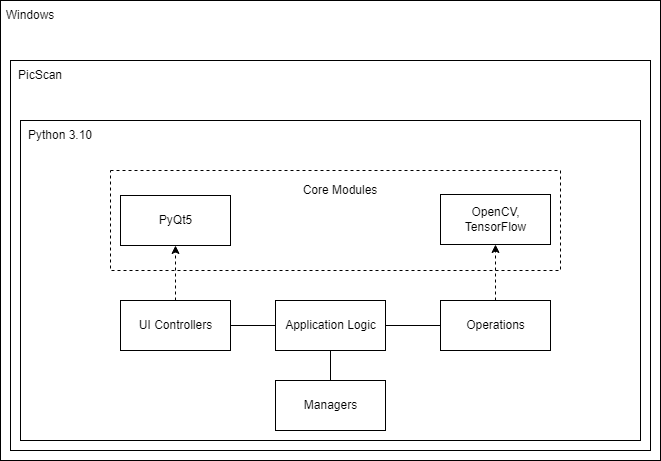
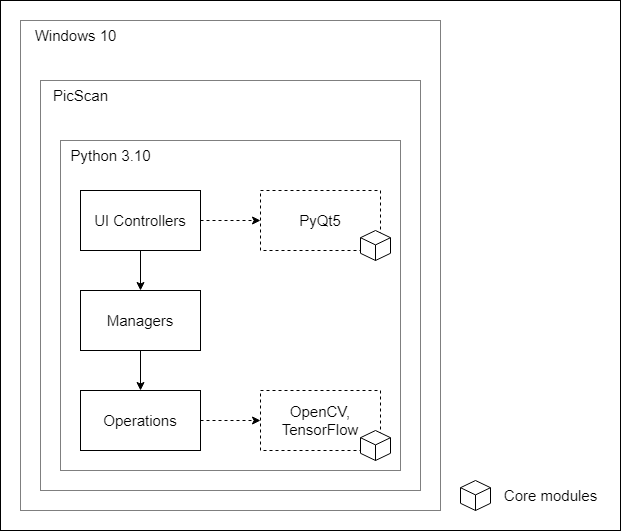
Scroll area clearing reworked, new achitecture diagram, pychaches ignored

diff --git a/src/controllers/main/mainController.py b/src/controllers/main/mainController.py
@@ -56,12 +56,17 @@ class MainUi(QMainWindow):
         self.setStyleSheet(open(ROOT_DIR + '/css/main.css').read())
 
     def _clear_scroll_area(self):
-        # TODO CHECK DELETION (QFrame content?)
-        for i in reversed(range(self.grid_layout.count())):
-            a = self.grid_layout.itemAt(i)
-            for j in reversed(range(a.layout().count())):
-                a.layout().itemAt(j).widget().setParent(None)
-            a.layout().setParent(None)
+        for i in range(self.grid_layout.count()):
+            item = self.grid_layout.itemAt(0).layout()
+            label = item.itemAt(0).widget()
+            frame = item.itemAt(1).widget()
+            vbox = frame.layout()
+            for j in range(vbox.count()):
+                vbox.itemAt(0).widget().setParent(None)
+            vbox.setParent(None)
+            frame.setParent(None)
+            label.setParent(None)
+            item.setParent(None)
 
     def switch_to_progress(self, in_auto_mode):
         Dm.save_cutouts()
@@ -73,13 +78,10 @@ class MainUi(QMainWindow):
         self._clear_scroll_area()
         self.scroll_area.verticalScrollBar().minimum()
         self.file_name_label.setText(Dm.get_file_name())
-        counter = 0
-        # TODO COLUMN_COUNT IN SETTINGS ?
         _COLUMN_COUNT = 2
-        for idx, co in enumerate(Dm.get_cutouts()):
-            layout = self._build_item(self.scroll_area, counter, idx)
-            x, y = counter % _COLUMN_COUNT, counter // _COLUMN_COUNT
-            counter += 1
+        for i in range(len(Dm.get_cutouts())):
+            layout = self._build_item(self.scroll_area, i)
+            x, y = i % _COLUMN_COUNT, i // _COLUMN_COUNT
             self.grid_layout.addLayout(layout, y, x)
         # TODO is there need for self.pixmap ?
         self.pixmap = Gra.get_qpixmap(Dm.get_canvas())
@@ -97,42 +99,41 @@ class MainUi(QMainWindow):
     def update_label(self, event=None):
         self.canvas.setPixmap(self.pixmap.scaled(self.canvas.size(), Qt.KeepAspectRatio, Qt.SmoothTransformation))
 
-    def _build_item(self, parent, idx, key):
+    def _build_item(self, parent, idx):
         h_layout = QHBoxLayout()
         frame = QFrame()
         v_layout = QVBoxLayout(frame)
         v_layout.setContentsMargins(0, 0, 0, 0)
         label = MainLabel(parent, idx)
-        rot_button = self._build_rotate_button(25, frame, idx, label)
-        edi_button = self._build_edit_button(25, frame, idx, label)
-        rem_button = self._build_remove_button(25, frame, label)
+        rot_button = self._build_rotate_button(25, label)
+        edi_button = self._build_edit_button(25, idx, label)
+        rem_button = self._build_remove_button(25, label)
         for i in [rot_button, edi_button, rem_button]:
             v_layout.addWidget(i)
         h_layout.addWidget(label, 9)
         h_layout.addWidget(frame, 1)
         return h_layout
 
-    def _build_button(self, size, parent, icon_path):
-        button = QPushButton(parent=parent)
-        # TODO parent = frame ???
+    def _build_button(self, size, icon_path):
+        button = QPushButton()
         button.setFixedSize(size, size)
         button.setIcon(self.icons[icon_path])
         icon_size = size - 5
         button.setIconSize(QSize(icon_size, icon_size))
         return button
 
-    def _build_remove_button(self, size, parent, label):
-        button = self._build_button(size, parent, "rem")
+    def _build_remove_button(self, size, label):
+        button = self._build_button(size, "rem")
         button.clicked.connect(lambda: label.toggle_cutout())
         return button
 
-    def _build_rotate_button(self, size, parent, idx, label):
-        button = self._build_button(size, parent, "rot")
+    def _build_rotate_button(self, size, label):
+        button = self._build_button(size, "rot")
         button.clicked.connect(lambda: label.rotate_cutout())
         return button
 
-    def _build_edit_button(self, size, parent, idx, label):
-        button = self._build_button(size, parent, "edit")
+    def _build_edit_button(self, size, idx, label):
+        button = self._build_button(size, "edit")
         button.clicked.connect(lambda: self._open_edit(idx, label))
         return button
 

diff --git a/src/utils/graphicUtils.py b/src/utils/graphicUtils.py
@@ -5,20 +5,6 @@ import numpy as np
 from PyQt5.QtGui import QImage, QPixmap
 import src.utils.geometricUtils as Geo
 
-
-# TODO DELETE ?
-# def resize_image_to_fit(img, shape):
-#     wc, hc = shape.width(), shape.height()
-#     wi, hi = len(img[0]), len(img)
-#     print(wi, hi)
-#     print(img.shape())
-#     if ((wc * 1.0) / hc) >= ((wi * 1.0) / hi):
-#         f = (hc * 1.0) / hi
-#     else:
-#         f = (wc * 1.0) / wi
-#     return cv2.resize(img, (0, 0), fx=f, fy=f)
-
-
 # def _show(img):
 #     plt.imshow(cv2.cvtColor(img, cv2.COLOR_BGR2RGB))
 #     plt.show()

diff --git a/tests/unittests.py b/tests/unittests.py
@@ -67,7 +67,7 @@ class MyTestCase(unittest.TestCase):
             bool = True
         else:
             bool = False
-        self.assertEqual(bool,True)
+        self.assertEqual(bool, True)
 
     def test_isEmpty(self):
         global files
